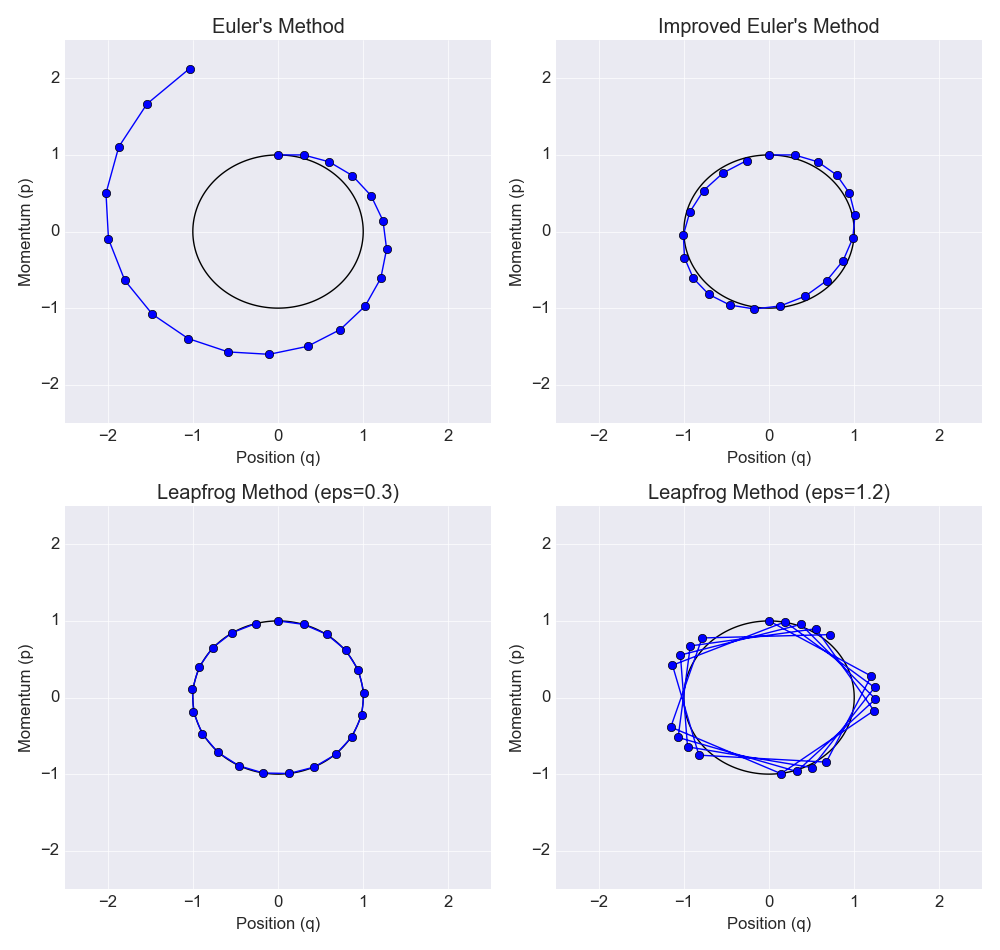
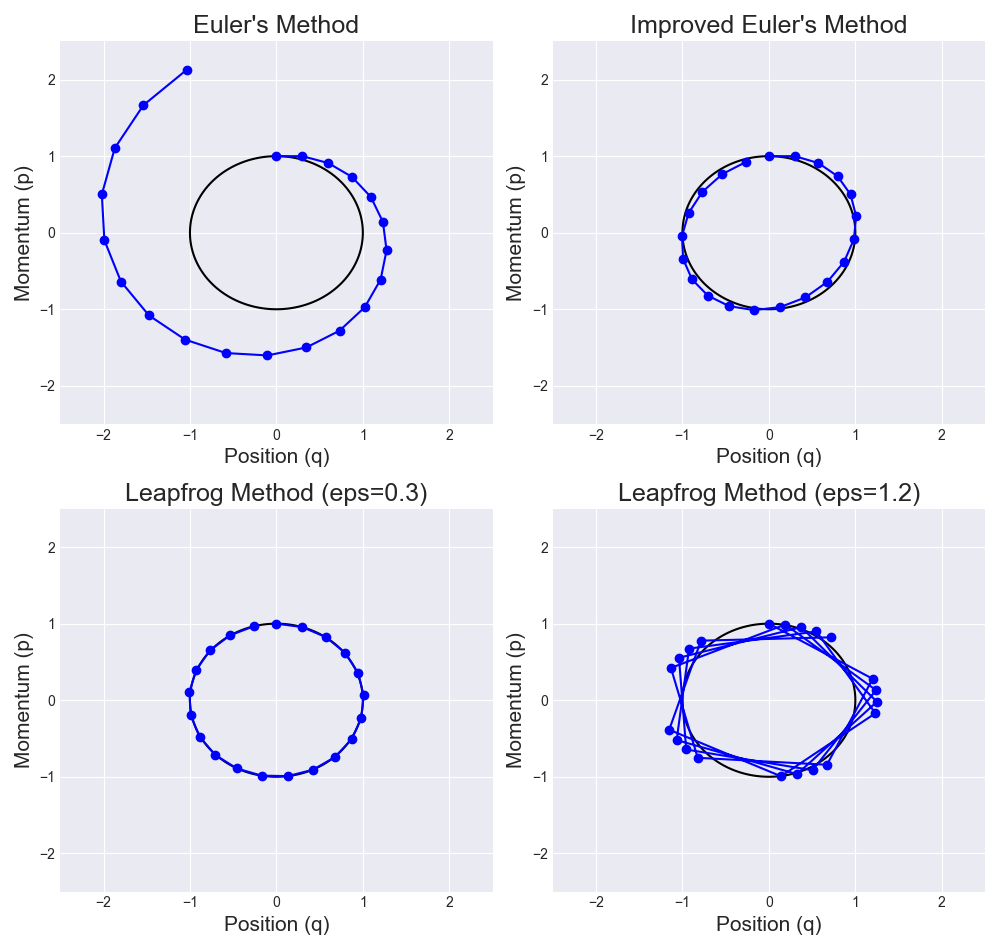
improved description of leapfrog tests for univariate gaussians

diff --git a/hmc/hamiltonian_univariate_gaussian.py b/hmc/hamiltonian_univariate_gaussian.py
@@ -8,22 +8,31 @@ exactly would be cheating anyway.
 
 2. Be careful with numpy stuff, sometimes it's [x] sometimes [[x]], sometimes x,
 etc. That caused me some confusion. ANOTHER thing that was confusing was I
-forgot to set the type of the point to be float ... yeah. =(
+forgot to set the type of the point to be float ... yeah. =( If you pass in
+numpy arrays and you modify the elements, it still modifies the elements ...
+it's passing a reference by value ... this is why I have a bunch of copies.
 
 3. Indeed, it looks like Radford Neal meant to make the p updates before the q
-updates, though he says "similar performance" can be achieved with the reverse.
+updates (i.e., momentum updates before the position updates), though he says
+"similar performance" can be achieved with the reverse.
 
 Just to remind myself, this should really be a bunch of first-order Taylor
 series expansions. We have one term plus another term for the first-order
 derivative.
 """
-
 import numpy as np
 np.set_printoptions(suppress=True)
+import sys
+
+# Matplotlib stuff
 import matplotlib.pyplot as plt
 plt.style.use('seaborn-darkgrid')
-import sys
 FIG_DIR = "draft_figures/"
+title_size = 18
+xsize = 15
+ysize = 15
+legend_size = 15
+tick_size = 15
 
 
 def _dqdt(s):
@@ -38,15 +47,14 @@ def _dpdt(s):
 
 def run_euler(start, eps, num_steps):
     """ Runs HMC with Euler's method. No vectorization =(. """
-    t = 0
-    points = np.array(start.reshape(2,1))
-    curr_pt = start
+    curr_pt = np.copy(start)
+    points = [curr_pt]
     for _ in range(num_steps):
-        t += eps
         p_next = curr_pt[1] + eps * _dpdt(curr_pt)
-        q_next = curr_pt[0] + eps * _dqdt(curr_pt)
+        q_next = curr_pt[0] + eps * _dqdt(curr_pt) # old curr_pt
         curr_pt = np.array([q_next,p_next])
-        points = np.hstack((points, curr_pt.reshape(2,1)))
+        points.append(curr_pt)
+    points = np.array(points)
     print("Euler's method, points.shape = {}.".format(points.shape))
     return points
 
@@ -56,41 +64,43 @@ def run_improved_euler(start, eps, num_steps):
     Runs HMC with the improved Euler's method. Now we can set curr_pt[1] (the
     position) first, before calling the position update.
     """
-    points = np.array(start.reshape(2,1))
-    curr_pt = start
+    curr_pt = np.copy(start)
+    points = [np.copy(curr_pt)]
     for _ in range(num_steps):
         curr_pt[1] = curr_pt[1] + eps * _dpdt(curr_pt)
-        curr_pt[0] = curr_pt[0] + eps * _dqdt(curr_pt)
-        points = np.hstack((points, curr_pt.reshape(2,1)))
+        curr_pt[0] = curr_pt[0] + eps * _dqdt(curr_pt) # updated curr_pt
+        points.append(np.copy(curr_pt))
+    points = np.array(points)
     print("Improved Euler's method, points.shape = {}.".format(points.shape))
     return points
 
 
 def run_leapfrog(start, eps, num_steps):
     """ Runs HMC with the Leapfrog method. """
-    points = np.array(start.reshape(2,1))
     curr_pt = start
+    points = [np.copy(curr_pt)]
     for _ in range(num_steps):
         curr_pt[1] = curr_pt[1] + (eps/2) * _dpdt(curr_pt)
         curr_pt[0] = curr_pt[0] + eps * _dqdt(curr_pt)
         curr_pt[1] = curr_pt[1] + (eps/2) * _dpdt(curr_pt)
-        points = np.hstack((points, curr_pt.reshape(2,1)))
+        points.append(np.copy(curr_pt))
+    points = np.array(points)
     print("Leapfrog method, points.shape = {}.".format(points.shape))
     return points
 
 
 def plot(euler_pts, im_euler_pts, leapfrog_pts1, leapfrog_pts2):
-    """ Plotting!! """
+    """ Plotting!! Points are np.arrays of shape (N, dimension). """
     fig, axarr = plt.subplots(2,2, figsize=(10,9.5))
 
-    axarr[0,0].plot(euler_pts[0], euler_pts[1], '-bo')
-    axarr[0,0].set_title("Euler's Method")
-    axarr[0,1].plot(im_euler_pts[0], im_euler_pts[1], '-bo')
-    axarr[0,1].set_title("Improved Euler's Method")
-    axarr[1,0].plot(leapfrog_pts1[0], leapfrog_pts1[1], '-bo')
-    axarr[1,0].set_title("Leapfrog Method (eps=0.3)")
-    axarr[1,1].plot(leapfrog_pts2[0], leapfrog_pts2[1], '-bo')
-    axarr[1,1].set_title("Leapfrog Method (eps=1.2)")
+    axarr[0,0].plot(euler_pts[:,0], euler_pts[:,1], '-bo')
+    axarr[0,0].set_title("Euler's Method", fontsize=title_size)
+    axarr[0,1].plot(im_euler_pts[:,0], im_euler_pts[:,1], '-bo')
+    axarr[0,1].set_title("Improved Euler's Method", fontsize=title_size)
+    axarr[1,0].plot(leapfrog_pts1[:,0], leapfrog_pts1[:,1], '-bo')
+    axarr[1,0].set_title("Leapfrog Method (eps=0.3)", fontsize=title_size)
+    axarr[1,1].plot(leapfrog_pts2[:,0], leapfrog_pts2[:,1], '-bo')
+    axarr[1,1].set_title("Leapfrog Method (eps=1.2)", fontsize=title_size)
 
     x = np.linspace(-1.0, 1.0, 100)
     y = np.linspace(-1.0, 1.0, 100)
@@ -98,13 +108,43 @@ def plot(euler_pts, im_euler_pts, leapfrog_pts1, leapfrog_pts2):
     F = X**2 + Y**2 - 1.0
     for i in range(2):
         for j in range(2):
-            axarr[i,j].set_xlabel("Position (q)")
-            axarr[i,j].set_ylabel("Momentum (p)")
+            axarr[i,j].set_xlabel("Position (q)", fontsize=xsize)
+            axarr[i,j].set_ylabel("Momentum (p)", fontsize=ysize)
             axarr[i,j].set_xlim([-2.5, 2.5])
             axarr[i,j].set_ylim([-2.5, 2.5])
             axarr[i,j].contour(X,Y,F,[0], colors='k')
     plt.tight_layout()
     plt.savefig(FIG_DIR+"univariate_gaussians.png")
+
+
+def plot_sets_of_points(epsilon_values, leapfrog_points):
+    """ Plotting!! Points are np.arrays of shape (N, dimension). """
+    ncols = 3
+    nrows = int(len(leapfrog_points)/3)
+    fig, axarr = plt.subplots(nrows, ncols, figsize=(5*nrows,5*ncols))
+
+    x = np.linspace(-1.0, 1.0, 100)
+    y = np.linspace(-1.0, 1.0, 100)
+    X, Y = np.meshgrid(x,y)
+    F = X**2 + Y**2 - 1.0
+
+    for i in range(nrows):
+        for j in range(ncols):
+            ii = nrows*i + j
+            eps = epsilon_values[ii]
+            points = leapfrog_points[ii]
+            axarr[i,j].plot(points[:,0], points[:,1], '-bo')
+            axarr[i,j].set_title("Leapfrog, eps {:.2f}".format(eps), 
+                                 fontsize=title_size)
+            axarr[i,j].set_xlabel("Position (q)", fontsize=xsize)
+            axarr[i,j].set_ylabel("Momentum (p)", fontsize=ysize)
+            axarr[i,j].set_xlim([-2.5, 2.5])
+            axarr[i,j].set_ylim([-2.5, 2.5])
+            axarr[i,j].contour(X,Y,F,[0], colors='k')
+            axarr[i,j].tick_params(axis='x', labelsize=tick_size)
+            axarr[i,j].tick_params(axis='y', labelsize=tick_size)
+    plt.tight_layout()
+    plt.savefig(FIG_DIR+"univariate_gaussians_leapfrog_tests.png")
 
 
 if __name__ == "__main__":
@@ -114,3 +154,11 @@ if __name__ == "__main__":
     leapfrog_pts1 = run_leapfrog(start=np.copy(s), eps=0.3, num_steps=20)
     leapfrog_pts2 = run_leapfrog(start=np.copy(s), eps=1.2, num_steps=20)
     plot(euler_pts, im_euler_pts, leapfrog_pts1, leapfrog_pts2)
+
+    # Some additional investigation.
+    epsilon_values = [0.05, 0.1, 0.2, 0.3, 0.5, 1.0, 1.5, 1.75, 2.0]
+    leapfrog_points = []
+    for eps in epsilon_values:
+        points = run_leapfrog(start=np.copy(s), eps=eps, num_steps=40)
+        leapfrog_points.append(points)
+    plot_sets_of_points(epsilon_values, leapfrog_points)

diff --git a/hmc/README.md b/hmc/README.md
@@ -1,17 +1,41 @@
 # MCMC Using Hamiltonian Dynamics
 
-This section is about understanding the paper *MCMC Using Hamiltonian Dynamics*,
-by Radford Neal (2010).
+This README will attempt to reproduce the plots from *MCMC Using Hamiltonian
+Dynamics*, by Radford Neal (2010). I will also augment these with my own
+extensions.
 
-## Simple Gaussian Results
+# Discretizing Hamiltonian Dynamics
 
-### Univariate Gaussian
+We assume the following setup with 1-D position `q` and momentum `p` variables:
 
-Section 5.2.1.3 example. Not much to say, except I really have to remember to
-use `astype('float32')` to avoid getting weird numpy errors with integers versus
-floats.
+- `H(q,p) = U(q) + K(p)`
+- `U(q) = q^2/2`
+- `K(p) = p^2/2`
+
+So the dynamics are:
+
+- `dq/dt = p`
+- `dp/dt = -q`
+
+with solution
+
+- `q(t) = r * cos(a+t)`
+- `p(t) = -r * sin(a+t)`
+
+First, here's the figure which reproduces Figure 1. It does so perfectly, as far
+as I can tell. 
 
 ![simple_gaussians](figures/univariate_gaussians.png?raw=true)
+
+Some extensions for the leapfrog method, where we test with different step
+sizes. We can see that at `eps=2.0`, the trajectory diverges. (If this were
+inside HMC, we'd be rejecting those samples, so it's not as bad as it looks ...
+but it's still awful.)
+
+![leapfrog_extensions](figures/univariate_gaussians_leapfrog_tests.png?raw=true)
+
+
+TODO BELOW
 
 ### Bivariate Gaussian, One Sample
 
